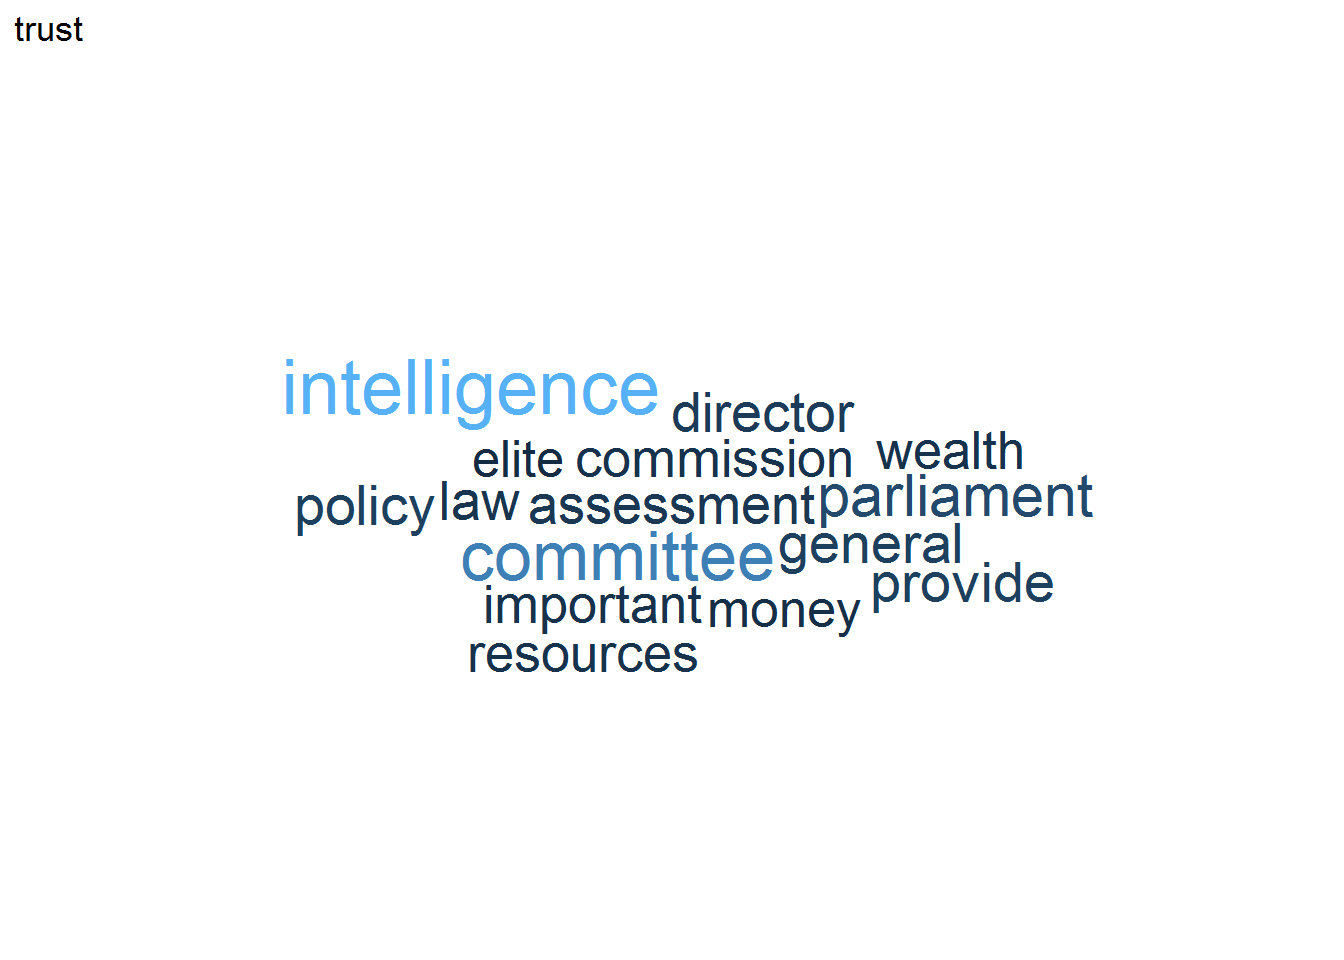
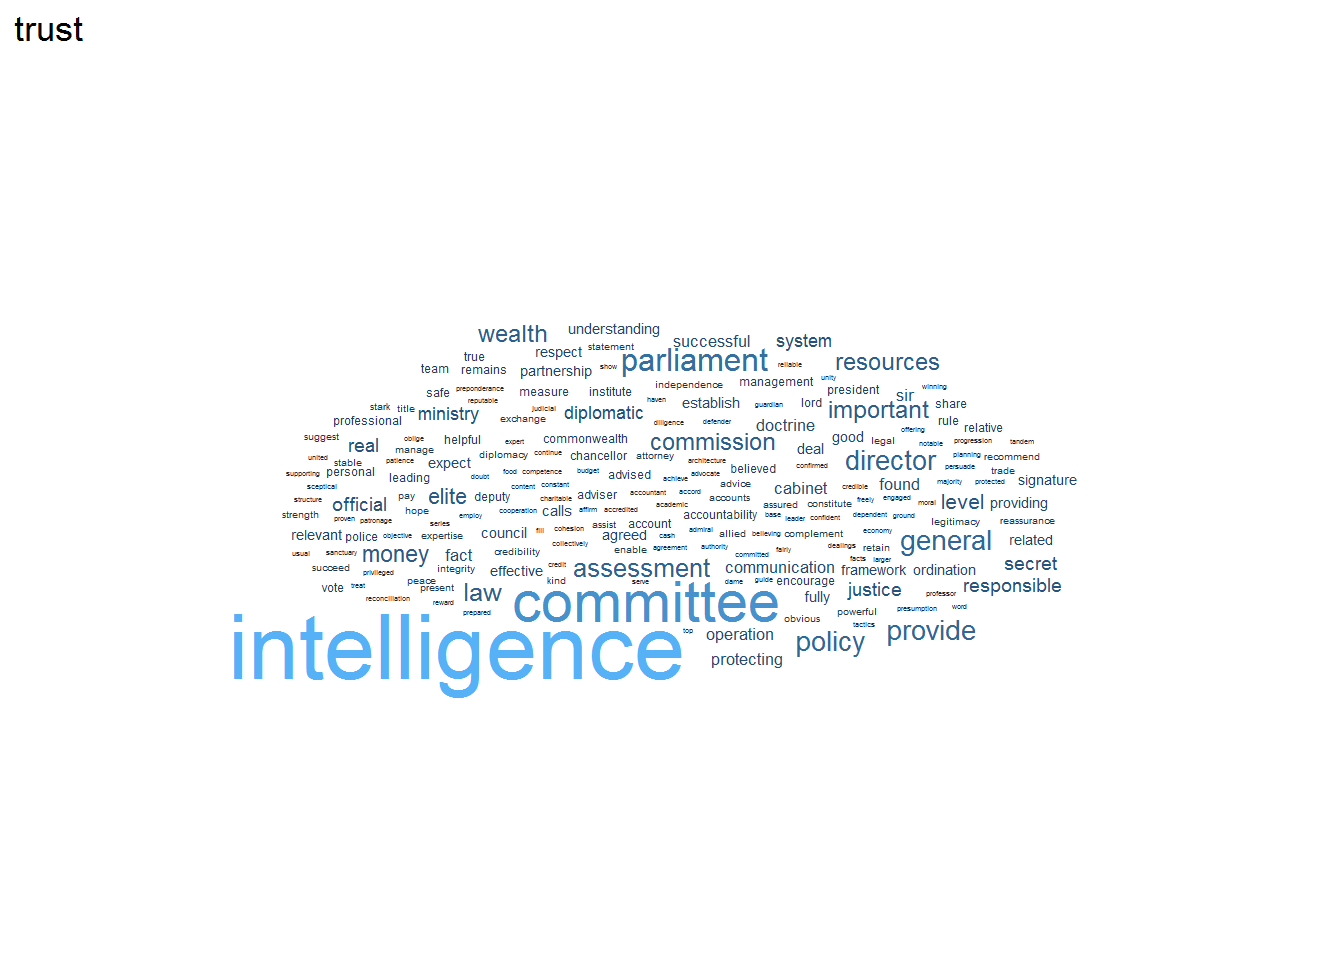
updated clouds

Changed region(s): [[0.1562, 0.3125, 0.8125, 0.75]]

diff --git a/index.html b/index.html
@@ -519,24 +519,24 @@ rr_sentences %&gt;%
 </thead>
 <tbody>
 <tr class="odd">
-<td align="right">30</td>
-<td align="left">SIS and GCHQ planned to change their operational effort against Russia still further – to <strong><em>% and </em></strong>% respectively by 2020.</td>
+<td align="right">17</td>
+<td align="left">28 ‘Wedge issues’ are highly divisive subjects which bifurcate a country’s population, often (but not always) into socially liberal and socially conservative camps, and which often to at least some degree transcend traditional political party boundaries.</td>
 </tr>
 <tr class="even">
-<td align="right">43</td>
-<td align="left">It is important to include local authorities ***.</td>
+<td align="right">46</td>
+<td align="left">Russia has also sought to expand its influence in the Middle East.</td>
 </tr>
 <tr class="odd">
 <td align="right">33</td>
-<td align="left">We have been informed that MI5 does, however, align its work on Russia with that of SIS and GCHQ in an agreed tri-Agency approach.</td>
+<td align="left">The Intelligence Coverage and Effects (ICE) process is the method by which SIS and GCHQ are tasked by the Government.</td>
 </tr>
 <tr class="even">
-<td align="right">42</td>
-<td align="left">136 However, the NCA also underlined that there are several ways in which the Sanctions and Anti-Money Laundering Act 2018 is too restrictive.</td>
+<td align="right">34</td>
+<td align="left">Less talk, more action?</td>
 </tr>
 <tr class="odd">
-<td align="right">30</td>
-<td align="left">The Foreign Secretary similarly recognised the importance of not ignoring other priorities: One of my concerns is that some of the short-term problems that Russia is causing us that we are having to address is actually crowding out thinking that we need to be doing on the longer-term changes to the international order, namely the rise of China.</td>
+<td align="right">14</td>
+<td align="left">24.</td>
 </tr>
 </tbody>
 </table>
@@ -1703,10 +1703,11 @@ rr_sentiment &lt;- rr_sentiment %&gt;%
   rr_sentiment %&gt;%
     filter(sentiment == theSentiment) %&gt;%
     group_by(word) %&gt;%
-    count() %&gt;%
-    filter(n &gt;= 10) %&gt;%
-    ggplot(aes(label = word, size = log1p(n), col = log1p(n))) +
-    scale_size_area(max_size = 10) +
+    summarise(n = n()) %&gt;%
+    mutate(prop = n/sum(n)) %&gt;%
+    #filter(n &gt;= 10) %&gt;%
+    ggplot(aes(label = word, size = log1p(prop), col = log1p(n))) +
+    scale_size_area(max_size = 12) +
     geom_text_wordcloud() +
     theme_minimal() + 
     labs(title = theSentiment)
